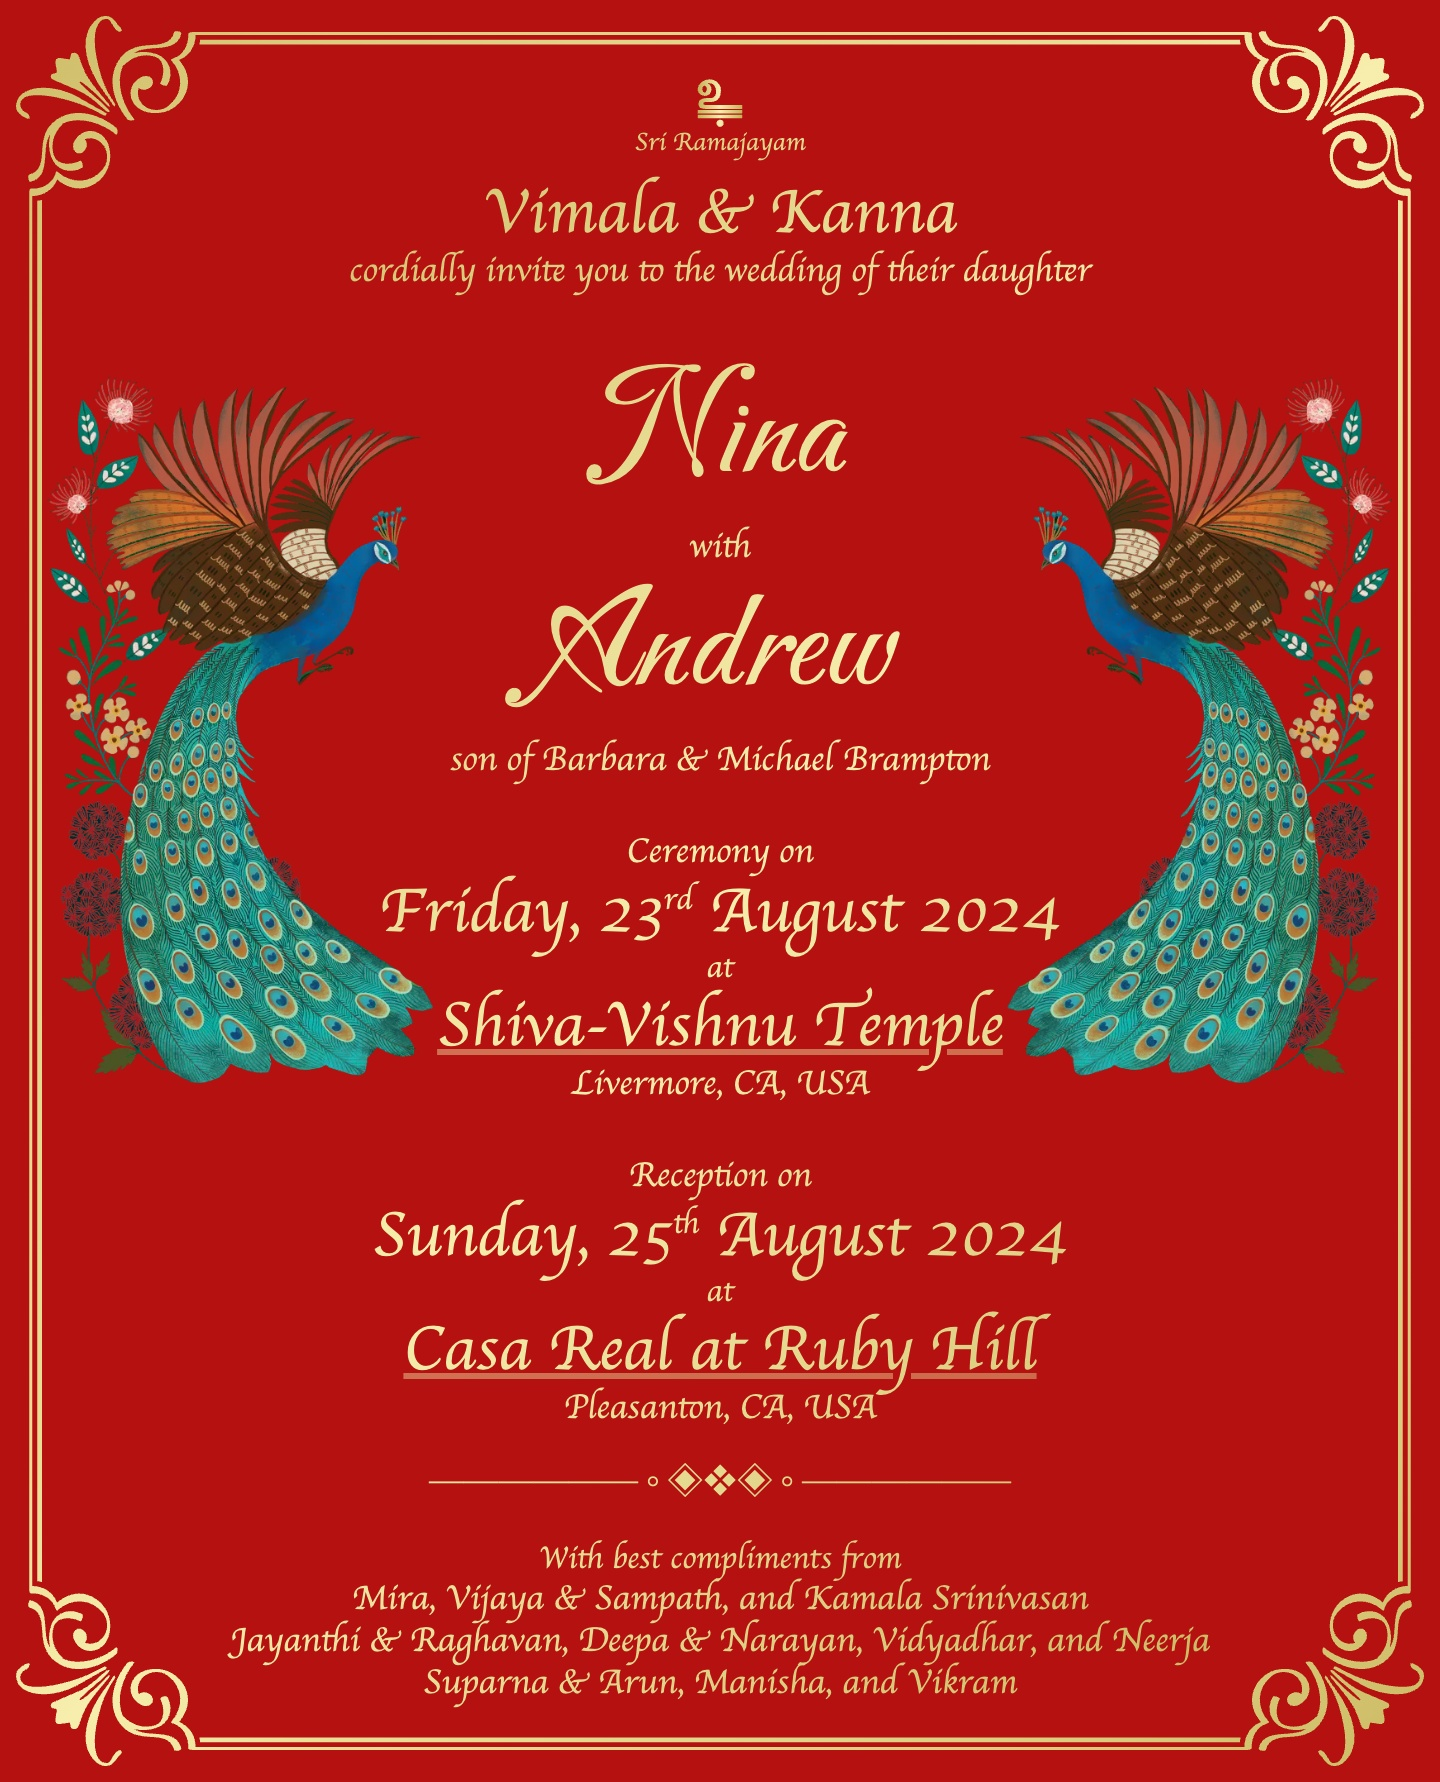
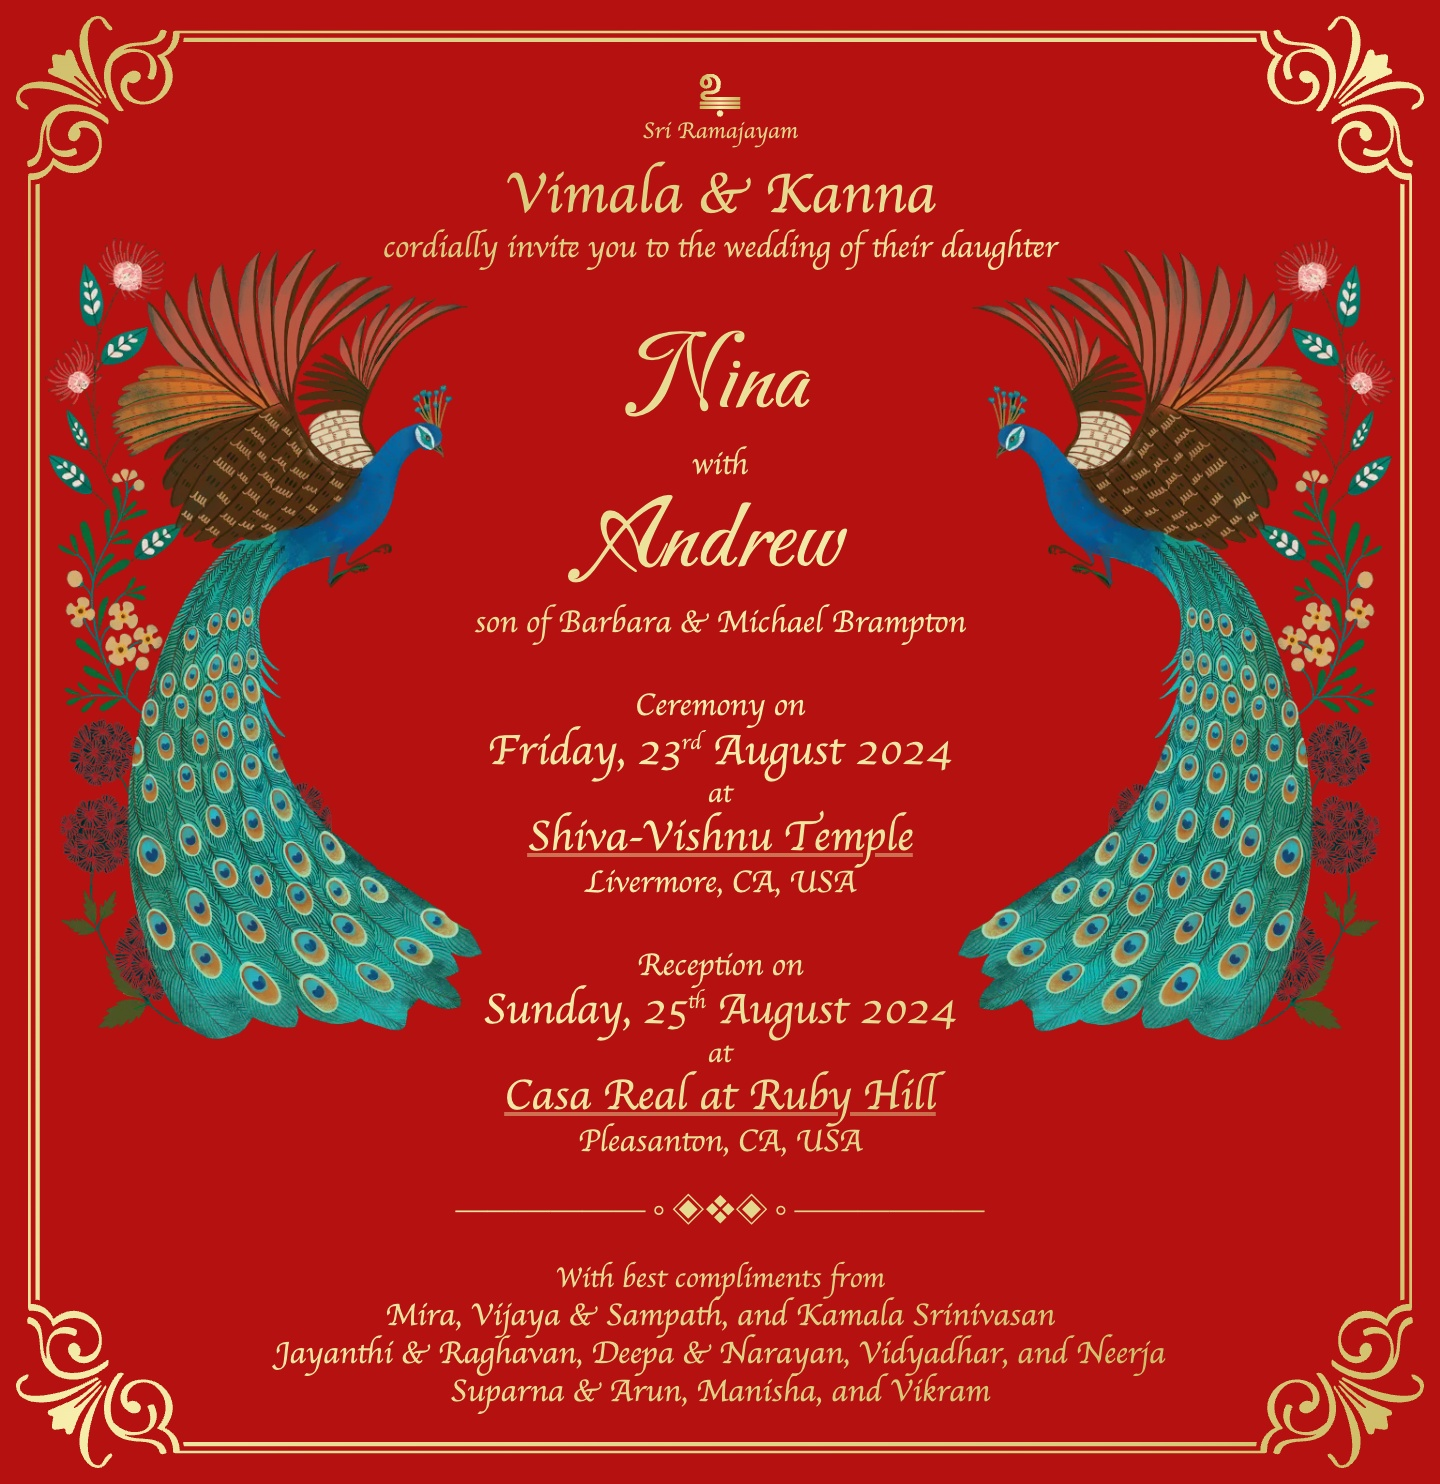
More tweaks to the content of the invite, and changed the screenshots to be 400 px wide, which looks better on smaller screens.

Changed region(s): [[0.0, 0.0, 1.0, 0.9919]]

diff --git a/www/css/invite.css b/www/css/invite.css
@@ -30,6 +30,11 @@ body {
 #invite-wrapper {
   background-color: #b51111;
   padding: 0.5rem;
+
+  /* If the page is too wide, center it all */
+  display: flex;
+  justify-content: center;
+  align-items: center;
 }
 
 .img-fluid {
@@ -59,7 +64,7 @@ body {
   text-align: center;
   white-space: nowrap;
 
-  font-size: min(2.2vw, 24px);
+  font-size: min(2vw, 20px);
   min-width: 300px;
   max-width: 960px;
   margin: auto;
@@ -70,7 +75,7 @@ body {
 
 #invite {
   display: grid;
-  grid-template-rows: auto 1fr auto auto;
+  grid-template-rows: auto auto auto auto;
   grid-template-columns: 1fr 1fr 1fr;
   grid-column-gap: 0px;
   grid-row-gap: 0px;
@@ -96,6 +101,52 @@ body {
 .reception-only .right {
   padding-top: 150px
 }
+
+.peacock {
+  padding-top: 3em;
+}
+
+.reception-only .peacock {
+  padding-top: 0;
+}
+
+
+.bottom .medium {
+  font-size: 1.5em;
+}
+
+.tiny {
+  font-size: 0.8em;
+  line-height: 1.2;
+}
+
+.small {
+  font-size: 1em;
+  line-height: 1.2;
+}
+
+.normal {
+  font-size: 1.1em;
+  line-height: 1.2;
+}
+
+.medium {
+  font-size: 2em;
+  line-height: 1.2;
+}
+
+.large {
+  font-size: 3em;
+  line-height: 1.2;
+}
+
+
+.larger {
+  font-size: 3.5em;
+  line-height: 1.2;
+}
+
+
 
 /* Desktop */
 /* <row-start> / <column-start> / <row-end> / <column-end> */
@@ -129,6 +180,20 @@ body {
   .reception-only .right {
     padding-top: unset;
   }
+
+  .reception-only .medium {
+    font-size: 1.5em;
+    line-height: 1.2;
+  }
+
+  .reception-only .larger {
+    font-size: 2.5em;
+    line-height: 1.2;
+  }
+
+  .peacock {
+    padding-top: 0;
+  }
 }
 
 #invite a {
@@ -140,6 +205,7 @@ body {
 #invite a:hover {
   text-decoration: underline #f3eaa780;
 }
+
 
 sup {
   font-size: 0.5em;
@@ -167,6 +233,7 @@ sup {
   margin-right: -5vw;
 }
 
+
 .footer {
   padding-bottom: 1em;
   padding-top: 0;
@@ -183,6 +250,7 @@ sup {
 }
 
 @media print {
+
   #invite button {
     display: none;
   }
@@ -212,36 +280,6 @@ sup {
 .divider {
   font-family: serif;
   padding: 1em;
-}
-
-.tiny {
-  font-size: 0.8em;
-  line-height: 1.2;
-}
-
-.small {
-  font-size: 1em;
-  line-height: 1.2;
-}
-
-.normal {
-  font-size: 1.1em;
-  line-height: 1.2;
-}
-
-.medium {
-  font-size: 2em;
-  line-height: 1.2;
-}
-
-.large {
-  font-size: 3em;
-  line-height: 1.2;
-}
-
-.larger {
-  font-size: 4.5em;
-  line-height: 1.2;
 }
 
 

diff --git a/www/invite/index.html b/www/invite/index.html
@@ -19,8 +19,8 @@
         <td>Friends Invite</td>
         <td><a href="/invite.html">.html</a></td>
         <td>
-          <a href="invite-480.jpg">.jpg</a>
-          <a href="invite-480.webp">.webp</a>
+          <a href="invite-400.jpg">.jpg</a>
+          <a href="invite-400.webp">.webp</a>
         </td>
         <td>
           <a href="invite-720.jpg">.jpg</a>
@@ -32,8 +32,8 @@
         <td>Amma's Family Invite</td>
         <td><a href="/invite-amma.html">.html</a></td>
           <td>
-            <a href="invite-amma-480.jpg">.jpg</a>
-            <a href="invite-amma-480.webp">.webp</a>
+            <a href="invite-amma-400.jpg">.jpg</a>
+            <a href="invite-amma-400.webp">.webp</a>
           </td>
           <td>
             <a href="invite-amma-720.jpg">.jpg</a>
@@ -45,8 +45,8 @@
         <td>Appa's Family Invite</td>
         <td><a href="/invite-appa.html">.html</a></td>
           <td>
-            <a href="invite-appa-480.jpg">.jpg</a>
-            <a href="invite-appa-480.webp">.webp</a>
+            <a href="invite-appa-400.jpg">.jpg</a>
+            <a href="invite-appa-400.webp">.webp</a>
           </td>
           <td>
             <a href="invite-appa-720.jpg">.jpg</a>

diff --git a/www/invite.html b/www/invite.html
@@ -47,13 +47,13 @@
 
         <div class="middle">
 
-          <div class="larger fancy">Nina</div>
+          <div class="larger fancy">Nina Partha</div>
           <div class="normal">with</div>
-          <div class="larger fancy">Andrew</div>
+          <div class="larger fancy">Andrew Brampton</div>
         </div>
 
         <div class=bottom>
-          <div class="normal">son of Barbara & Michael Brampton</div><br/>
+          <div class="normal">son of Barbara & Michael</div><br/>
 
           
 
@@ -62,10 +62,9 @@
           <div class="small">at</div>
           <div class="medium"><a href="https://www.google.com/maps/dir/?api=1&destination=Casa%20Real%20at%20Ruby%20Hill&destination_place_id=ChIJqyp8hVXdj4ARCs7FaAeT_C8" target="_blank">Casa Real at Ruby Hill</a></div>
           <div class="normal">Pleasanton, CA, USA</div>
-
-          <button type="button" class="btn">RSVP</button>
         </div>
         <div class=footer>
+          <button type="button" class="btn">RSVP</button>
           <div class="normal divider">━━━━━━ ◦ ◈❖◈ ◦ ━━━━━━</div>
           <div class="small">With best compliments from</div>
           <div class="normal">

diff --git a/www/invite-amma.html b/www/invite-amma.html
@@ -72,10 +72,9 @@
           <div class="small">at</div>
           <div class="medium"><a href="https://www.google.com/maps/dir/?api=1&destination=Casa%20Real%20at%20Ruby%20Hill&destination_place_id=ChIJqyp8hVXdj4ARCs7FaAeT_C8" target="_blank">Casa Real at Ruby Hill</a></div>
           <div class="normal">Pleasanton, CA, USA</div>
-
-          <button type="button" class="btn">RSVP</button>
         </div>
         <div class=footer>
+          <button type="button" class="btn">RSVP</button>
           <div class="normal divider">━━━━━━ ◦ ◈❖◈ ◦ ━━━━━━</div>
           <div class="small">With best compliments from</div>
           <div class="normal">

diff --git a/www/invite-appa.html b/www/invite-appa.html
@@ -72,10 +72,9 @@
           <div class="small">at</div>
           <div class="medium"><a href="https://www.google.com/maps/dir/?api=1&destination=Casa%20Real%20at%20Ruby%20Hill&destination_place_id=ChIJqyp8hVXdj4ARCs7FaAeT_C8" target="_blank">Casa Real at Ruby Hill</a></div>
           <div class="normal">Pleasanton, CA, USA</div>
-
-          <button type="button" class="btn">RSVP</button>
         </div>
         <div class=footer>
+          <button type="button" class="btn">RSVP</button>
           <div class="normal divider">━━━━━━ ◦ ◈❖◈ ◦ ━━━━━━</div>
           <div class="small">With best compliments from</div>
           <div class="normal">

diff --git a/create-invite-jpg.js b/create-invite-jpg.js
@@ -23,7 +23,7 @@ function timeout(ms) {
 
         const filename = path.basename(url.parse(currentUrl).pathname, '.html');
 
-        for (width of [480, 720]) {
+        for (width of [400, 720]) {
             await page.setViewport({
                 width: width,
                 height: width,

diff --git a/invite/invite.html b/invite/invite.html
@@ -2,4 +2,8 @@
   "ceremony": false,
   "appa": "Partha",
   "amma": "Vimala",
+  "andrew": "Andrew Brampton",
+  "nina": "Nina Partha",
+  "barbara": "Barbara",
+  "michael": "Michael",
 })

diff --git a/invite/invite-amma.html b/invite/invite-amma.html
@@ -2,4 +2,8 @@
   "ceremony": true,
   "appa": "Kanna",
   "amma": "Papoos",
+  "andrew": "Andrew",
+  "nina": "Nina",
+  "barbara": "Barbara",
+  "michael": "Michael Brampton",
 })

diff --git a/invite/invite-appa.html b/invite/invite-appa.html
@@ -2,4 +2,8 @@
   "ceremony": true,
   "appa": "Kanna",
   "amma": "Vimala",
+  "andrew": "Andrew",
+  "nina": "Nina",
+  "barbara": "Barbara",
+  "michael": "Michael Brampton",
 })
